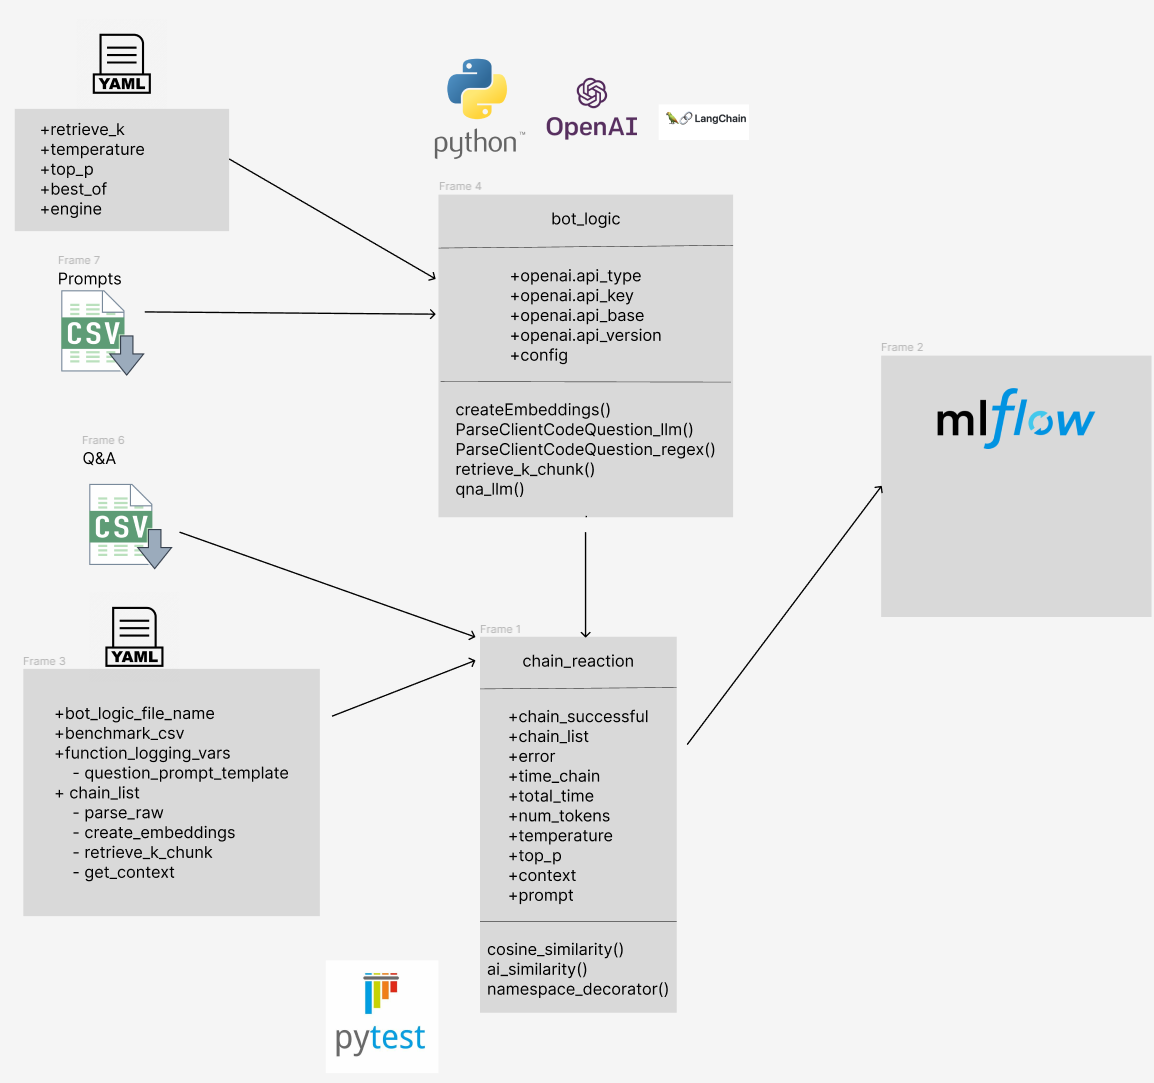
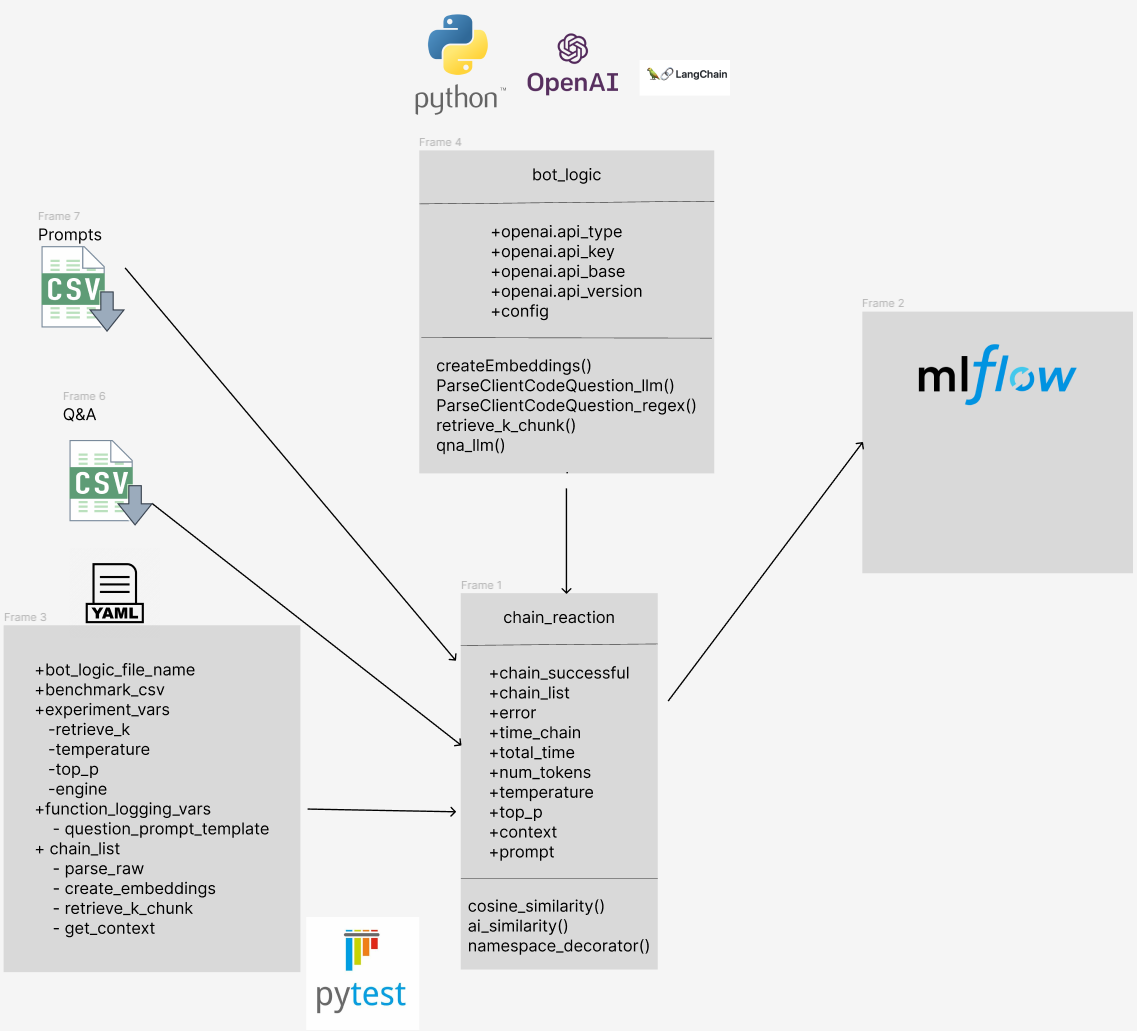
bugfix with for loop in metrics. Improved AI_similarity to provide 0 or 1

diff --git a/evals.py b/evals.py
@@ -8,7 +8,7 @@ import csv
 import yaml
 import pdb
 
-# Get filename of .env
+# Get vars from config file
 with open('config.yaml', 'r') as f:
     tool_config = yaml.safe_load(f)
 
@@ -17,10 +17,9 @@ env_name = tool_config['env_file_name'] # change to use your own .env file
 config = dotenv_values('bot/'+env_name+'.env')
 
 ## Configure openai
-
-openai.api_type = config["OPENAI_API_TYPE"] #"azure"
+openai.api_type = config["OPENAI_API_TYPE"]
 openai.api_key = config['OPENAI_API_KEY']
-openai.api_base = config['OPENAI_API_BASE'] #"https://synapseml-openai.openai.azure.com/"
+openai.api_base = config['OPENAI_API_BASE']
 openai.api_version = config['OPENAI_API_VERSION'] 
 
 def createEmbeddings(text):
@@ -29,121 +28,64 @@ def createEmbeddings(text):
     return embeddings
 
 def get_cosine_similarity(A_true, A_pred):
-    # A_true: list of true answers
-    # A_predicted: list of predicted answers
+    # A_true: str of true answers
+    # A_predicted: str of predicted answers
     
-    # cosine_similarity_score: average score over all the questions
-    # cosine_similarities: list of cosine similarities
+    # cosine_similarity_score: score of cosine similarity between A_true and A_pred
     
-    cosine_similarities = []
-    for i in range(len(A_true)):
-        emb_true = createEmbeddings(A_true[i])
-        time.sleep(0.1)
-        emb_pred = createEmbeddings(A_pred[i])
-        cosine_similarity_val = cosine_similarity(
-            np.array(emb_true).reshape(1, -1), np.array(emb_pred).reshape(1, -1)
-        )[0][0]
-        cosine_similarities.append(np.round(cosine_similarity_val, 4))
+    emb_true = createEmbeddings(A_true)
+    emb_pred = createEmbeddings(A_pred)
+    cosine_similarity_val = cosine_similarity(
+        np.array(emb_true).reshape(1, -1), np.array(emb_pred).reshape(1, -1)
+    )[0][0]
+    cosine_similarity_score = np.round(cosine_similarity_val, 4)
         
-    cosine_similarity_score = sum(cosine_similarities) / len(cosine_similarities)
-    
-    return cosine_similarity_score, cosine_similarities
+    return cosine_similarity_score
 
-def AI_similarity_v0_text_davinci(A_true, A_pred, Question):
+def AI_similarity(A_true, A_pred, Question):
     """
     Evaluate the semantic similarity between the predicted and true answers using an llm model.
 
     Args:
-        A_true (list): List of true answers.
-        A_pred (list): List of predicted answers from the language model.
-        Question (list): List of questions corresponding to each answer.
+        A_true: str of true answers.
+        A_pred: str of predicted answers from the language model.
+        Question: str of questions corresponding to each answer.
 
     Returns:
-        Tuple: (ai_score, scores)
-            - ai_score (float): Average semantic similarity score across all questions.
-            - scores (list): List of individual semantic similarity scores for each question. 0=< value <=1.
+        ai_score (int): Semantic similarity score between the predicted and true answers.
     """
     
-    val_template = """ 
-    Question: {Question}
-    PredictedAnswer: {PredictedAnswer}
-    TrueAnswer: {TrueAnswer}
-    Calculate and provide the similarity score between the predicted answer (PredictedAnswer) and the true answer (TrueAnswer) for a given question (Question).
-
-    In cases where PredictedAnswer bears no similarity to TrueAnswer, the output should be 0.
-    When PredictedAnswer and TrueAnswer are semantically identical, the output should be 1.
-    For all other scenarios, the output should be a floating-point number between 0 and 1, reflecting the extent of similarity between the two answers.
-    Ensure that your output is formatted correctly: it should be a floating-point number between 0 and 1, without any additional text such as 'answer=' or 'output ='. For instance, '1' and '0.7' are correct formats, while 'answer= 1' and 'output =0.7' are not.
-
-    Return the similarity score as the sole output."""
-
-    ai_score = "NA"
-    scores = len(Question)*["NA"]
-        
-    scores = []
-    for i in range(len(Question)):
-        val_prompt = val_template.format(Question = Question[i], PredictedAnswer = A_pred[i], TrueAnswer = A_true[i])
-        response = openai.Completion.create(
-            engine=config["OPENAI_DEPLOYMENT_COMPLETION"],
-            prompt=val_prompt,
-            max_tokens=1024,
-            n=1,
-            stop=None,
-            temperature=0,
-        )
-        ans = response['choices'][0]['text']
-        scores.append(float(ans))
-    ai_score = sum(scores)/len(scores)
-    return ai_score, scores
-
-def AI_similarity_v1_text_davinci(A_true, A_pred, Question):
-    """
-    Evaluate the semantic similarity between the predicted and true answers using an llm model.
-
-    Args:
-        A_true (list): List of true answers.
-        A_pred (list): List of predicted answers from the language model.
-        Question (list): List of questions corresponding to each answer.
-
-    Returns:
-        Tuple: (ai_score, scores)
-            - ai_score (float): Average semantic similarity score across all questions.
-            - scores (list): List of individual semantic similarity scores for each question. value: 0 or 1.
-    """
-
     val_template = """ 
     Question: {Question}
     PredictedAnswer: {PredictedAnswer}
     TrueAnswer: {TrueAnswer}
     Evaluate the accuracy of the question answering model's predictions.
-    Given a question, the true answer (TrueAnswer), and the model's prediction(PredictedAnswer), determine if the model's prediction matches the true answer.
-    Return a Boolean value indicating whether the model's prediction is correct (True/False).
-    """
-    ai_score = "NA"
-    scores = len(Question)*["NA"]
+    Given a question, the true answer (TrueAnswer), and the model's prediction (PredictedAnswer), determine if the model's prediction matches the true answer.
+    Return only a single score of 0 or 1 indicating whether the model's prediction is correct. The response should be an integer with no newline characters."""
 
-    scores = []
-    for i in range(len(Question)):
-        val_prompt = val_template.format(Question = Question[i], PredictedAnswer = A_pred[i], TrueAnswer = A_true[i])
-        response = openai.Completion.create(
-            engine=config["OPENAI_DEPLOYMENT_COMPLETION"],
-            prompt=val_prompt,
-            max_tokens=1024,
-            n=1,
-            stop=None,
-            temperature=0,
-        )
-        ans = response['choices'][0]['text']
-        scores.append(float(eval(ans.strip())))
-    ai_score = sum(scores)/len(scores)
-    
-    return ai_score, scores
+    ai_score = "NA"
+        
+    val_prompt = val_template.format(
+        Question=Question, 
+        PredictedAnswer=A_pred,
+        TrueAnswer = A_true
+    )
+    response = openai.Completion.create(
+        engine=config["OPENAI_DEPLOYMENT_COMPLETION"],
+        prompt=val_prompt,
+        max_tokens=1024,
+        n=1,
+        stop=None,
+        temperature=0,
+    )
+    ans = response['choices'][0]['text']
+    ai_score = int(ans)
+    return ai_score
 
 if __name__ == "__main__":
-    A_true = ["Hi all", "my name is"]
-    A_pred = ["Hello all", "my name is not"]
-    Question = ["What to say first when meeting a group of people?", "How do you introduce yourself?"]
+    Question = "How do you introduce yourself?"
+    A_true = "My name is"
+    A_pred = "My name is not"
 
     print('Cosine similarity:', get_cosine_similarity(A_true, A_pred))
-    print('AI similarity:', AI_similarity_v0_text_davinci(A_true, A_pred, Question))
-    print('AI similarity:', AI_similarity_v1_text_davinci(A_true, A_pred, Question))
+    print('AI similarity:', AI_similarity(A_true, A_pred, Question))

diff --git a/chain_reaction.py b/chain_reaction.py
@@ -15,7 +15,7 @@ __copyright__ = "Copyright 2023, Microsoft Corp."
 import numpy as np
 import pandas as pd
 import yaml
-from evals import get_cosine_similarity, AI_similarity_v0_text_davinci
+from evals import get_cosine_similarity, AI_similarity
 import importlib
 import json
 import time
@@ -169,7 +169,7 @@ with mlflow.start_run(run_name=mlflow_run_name) as run:
                     if method == 'cosine_similarity':
                         for attempt in range(RETRIES):
                             try:
-                                cosine_similarity_score, cosine_similarities = get_cosine_similarity(a_true, link[val['out'][0]])
+                                cosine_similarity_score = get_cosine_similarity(a_true, link[val['out'][0]])
                                 time.sleep(0.1)
                                 df_result[method][i] = np.round(cosine_similarity_score, 4)
                             except Exception:
@@ -186,9 +186,9 @@ with mlflow.start_run(run_name=mlflow_run_name) as run:
                     if method == 'ai_similarity':
                         for attempt in range(RETRIES):
                             try:
-                                ai_similarity, scores = AI_similarity_v0_text_davinci(a_true, link[val['out'][0]], [link[input_var]])
+                                ai_similarity_score = AI_similarity(a_true, link[val['out'][0]], link[input_var])
                                 time.sleep(0.1)
-                                df_result[method][i] = np.round(ai_similarity, 4)
+                                df_result[method][i] = ai_similarity_score
                             except Exception:
                                 print("Error at AI similarity")
                                 print(traceback.format_exc())
@@ -199,9 +199,6 @@ with mlflow.start_run(run_name=mlflow_run_name) as run:
                             else:
                                 # Successful try, no need to retry
                                 break
-                    else:
-                        print("No valid metric specified in config.yaml")
-                        exit()
 
                 # Log each output of each chain function
                 for key, val in config['chain_instruct'].items():
